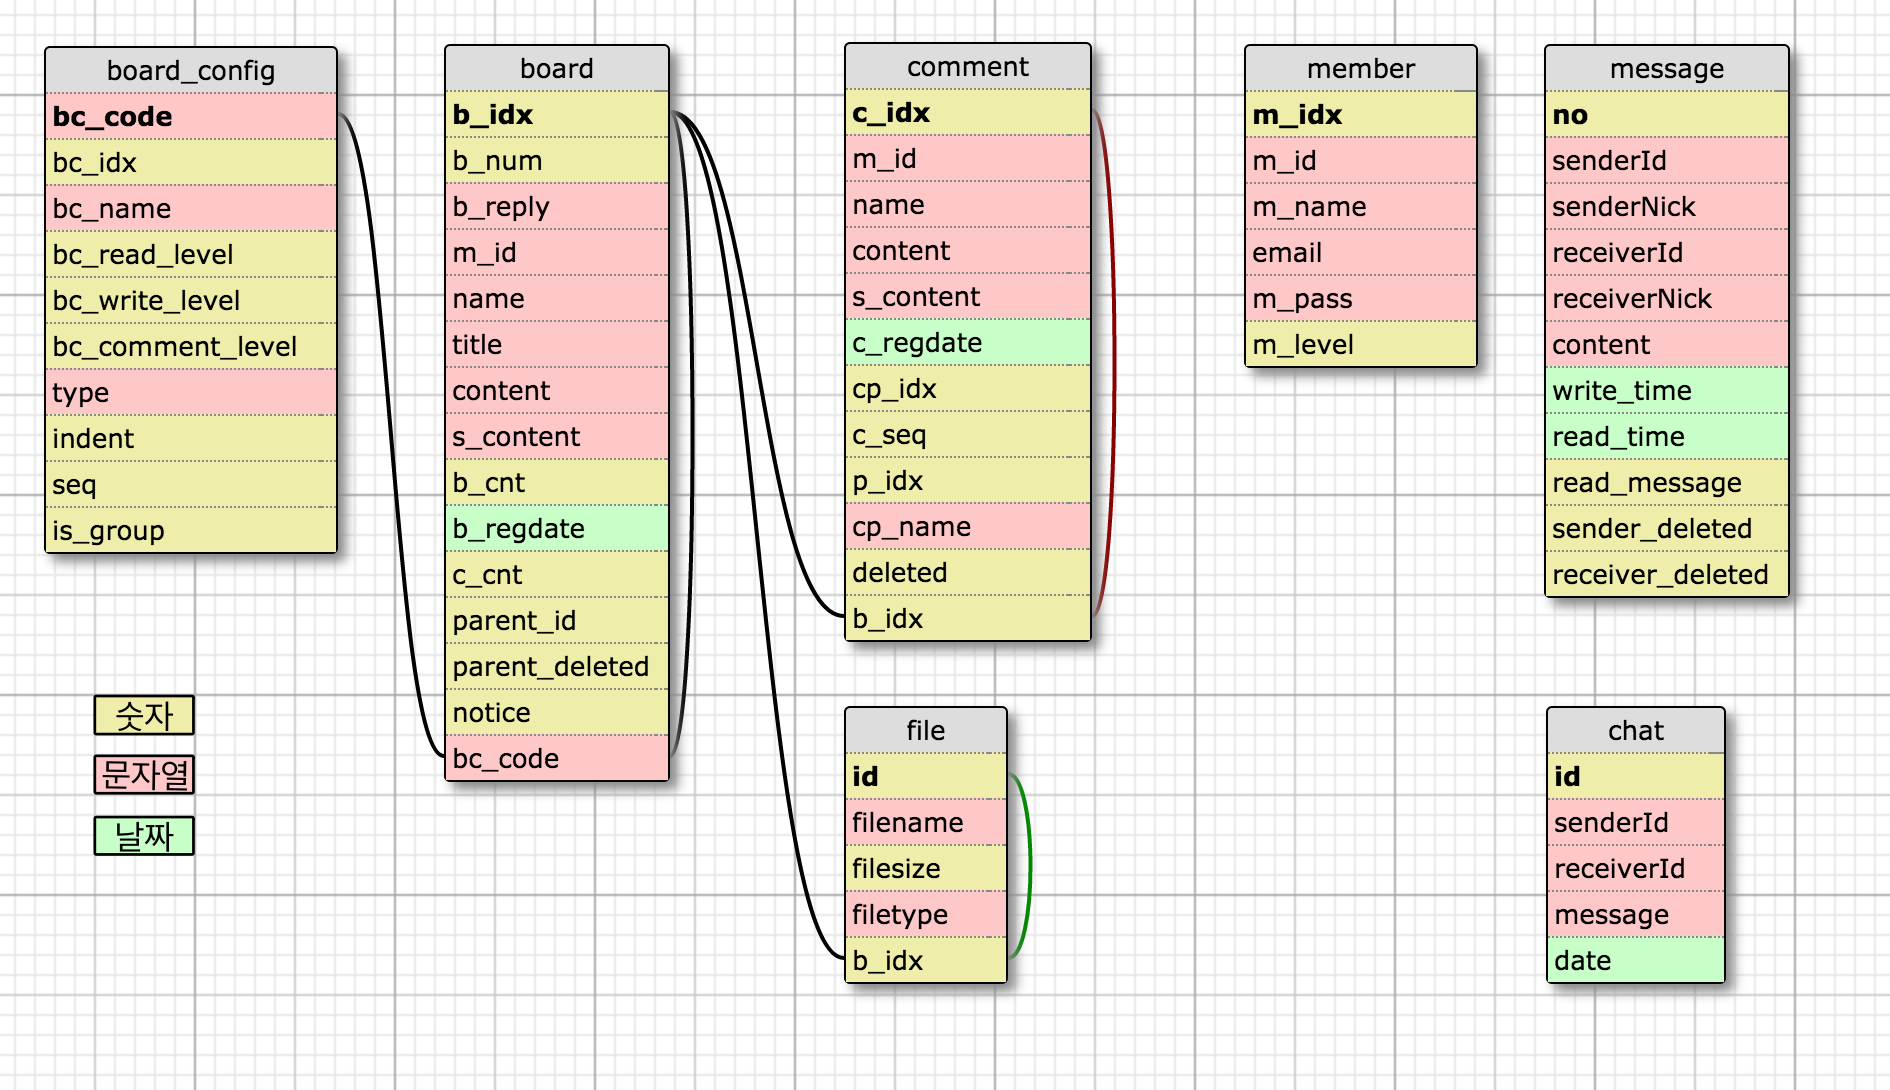
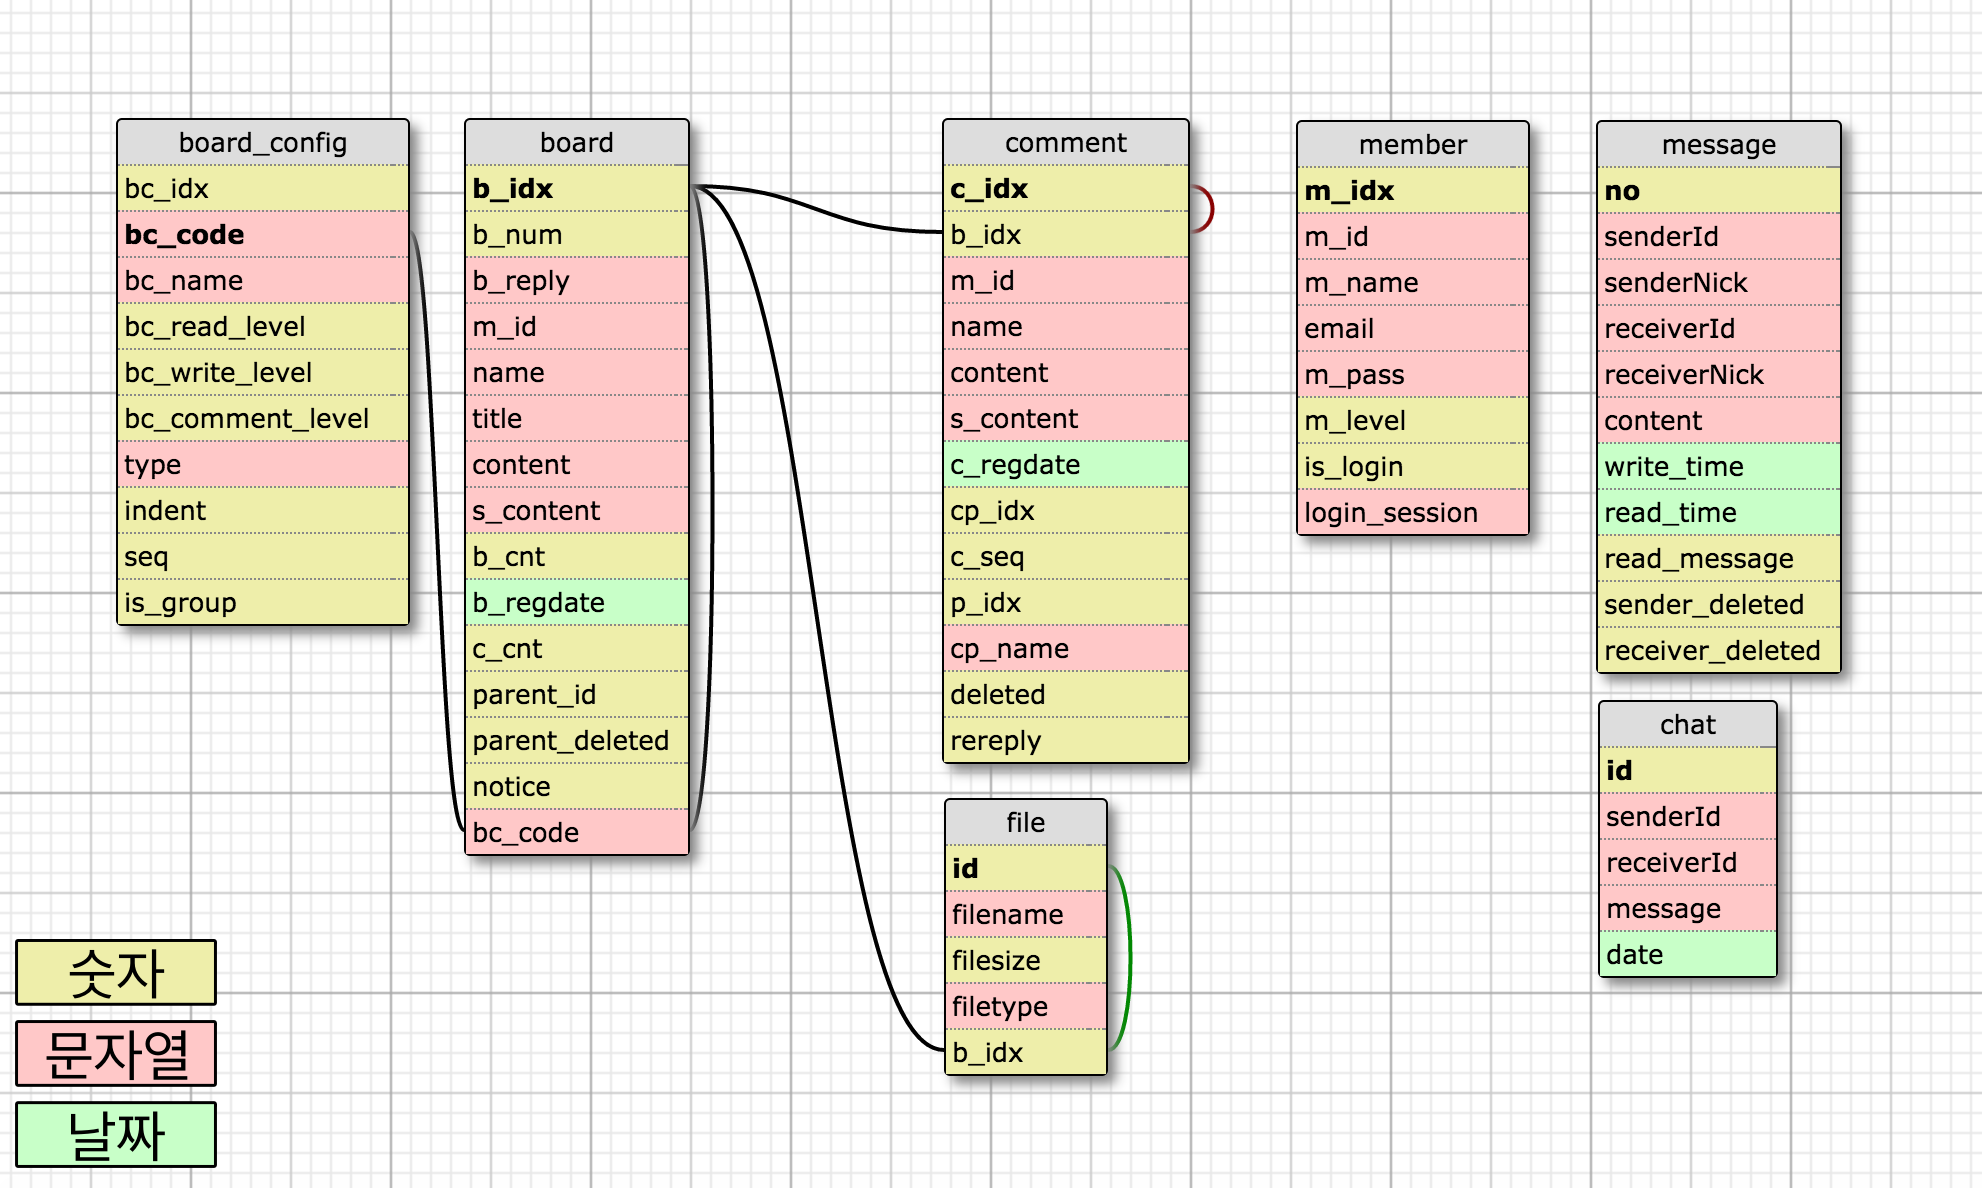
fix

diff --git a/member_table.html b/member_table.html
@@ -98,6 +98,16 @@
               <td>tinyint</td>
               <td>멤버 레벨</td>
             </tr>
+            <tr>
+              <td>is_login</td>
+              <td>tinyint</td>
+              <td>로그인 여부</td>
+            </tr>
+            <tr>
+              <td>login_session</td>
+              <td>char</td>
+              <td>로그인 시 세션 값</td>
+            </tr>
           </tbody>
         </table>
       </div>

diff --git a/cmt_table.html b/cmt_table.html
@@ -128,6 +128,11 @@
               <td>int</td>
               <td>댓글 삭제 여부</td>
             </tr>
+            <tr>
+              <td>rereply</td>
+              <td>tinyint</td>
+              <td>최상위 댓글의 댓글인지 여부</td>
+            </tr>
           </tbody>
         </table>
       </div>
